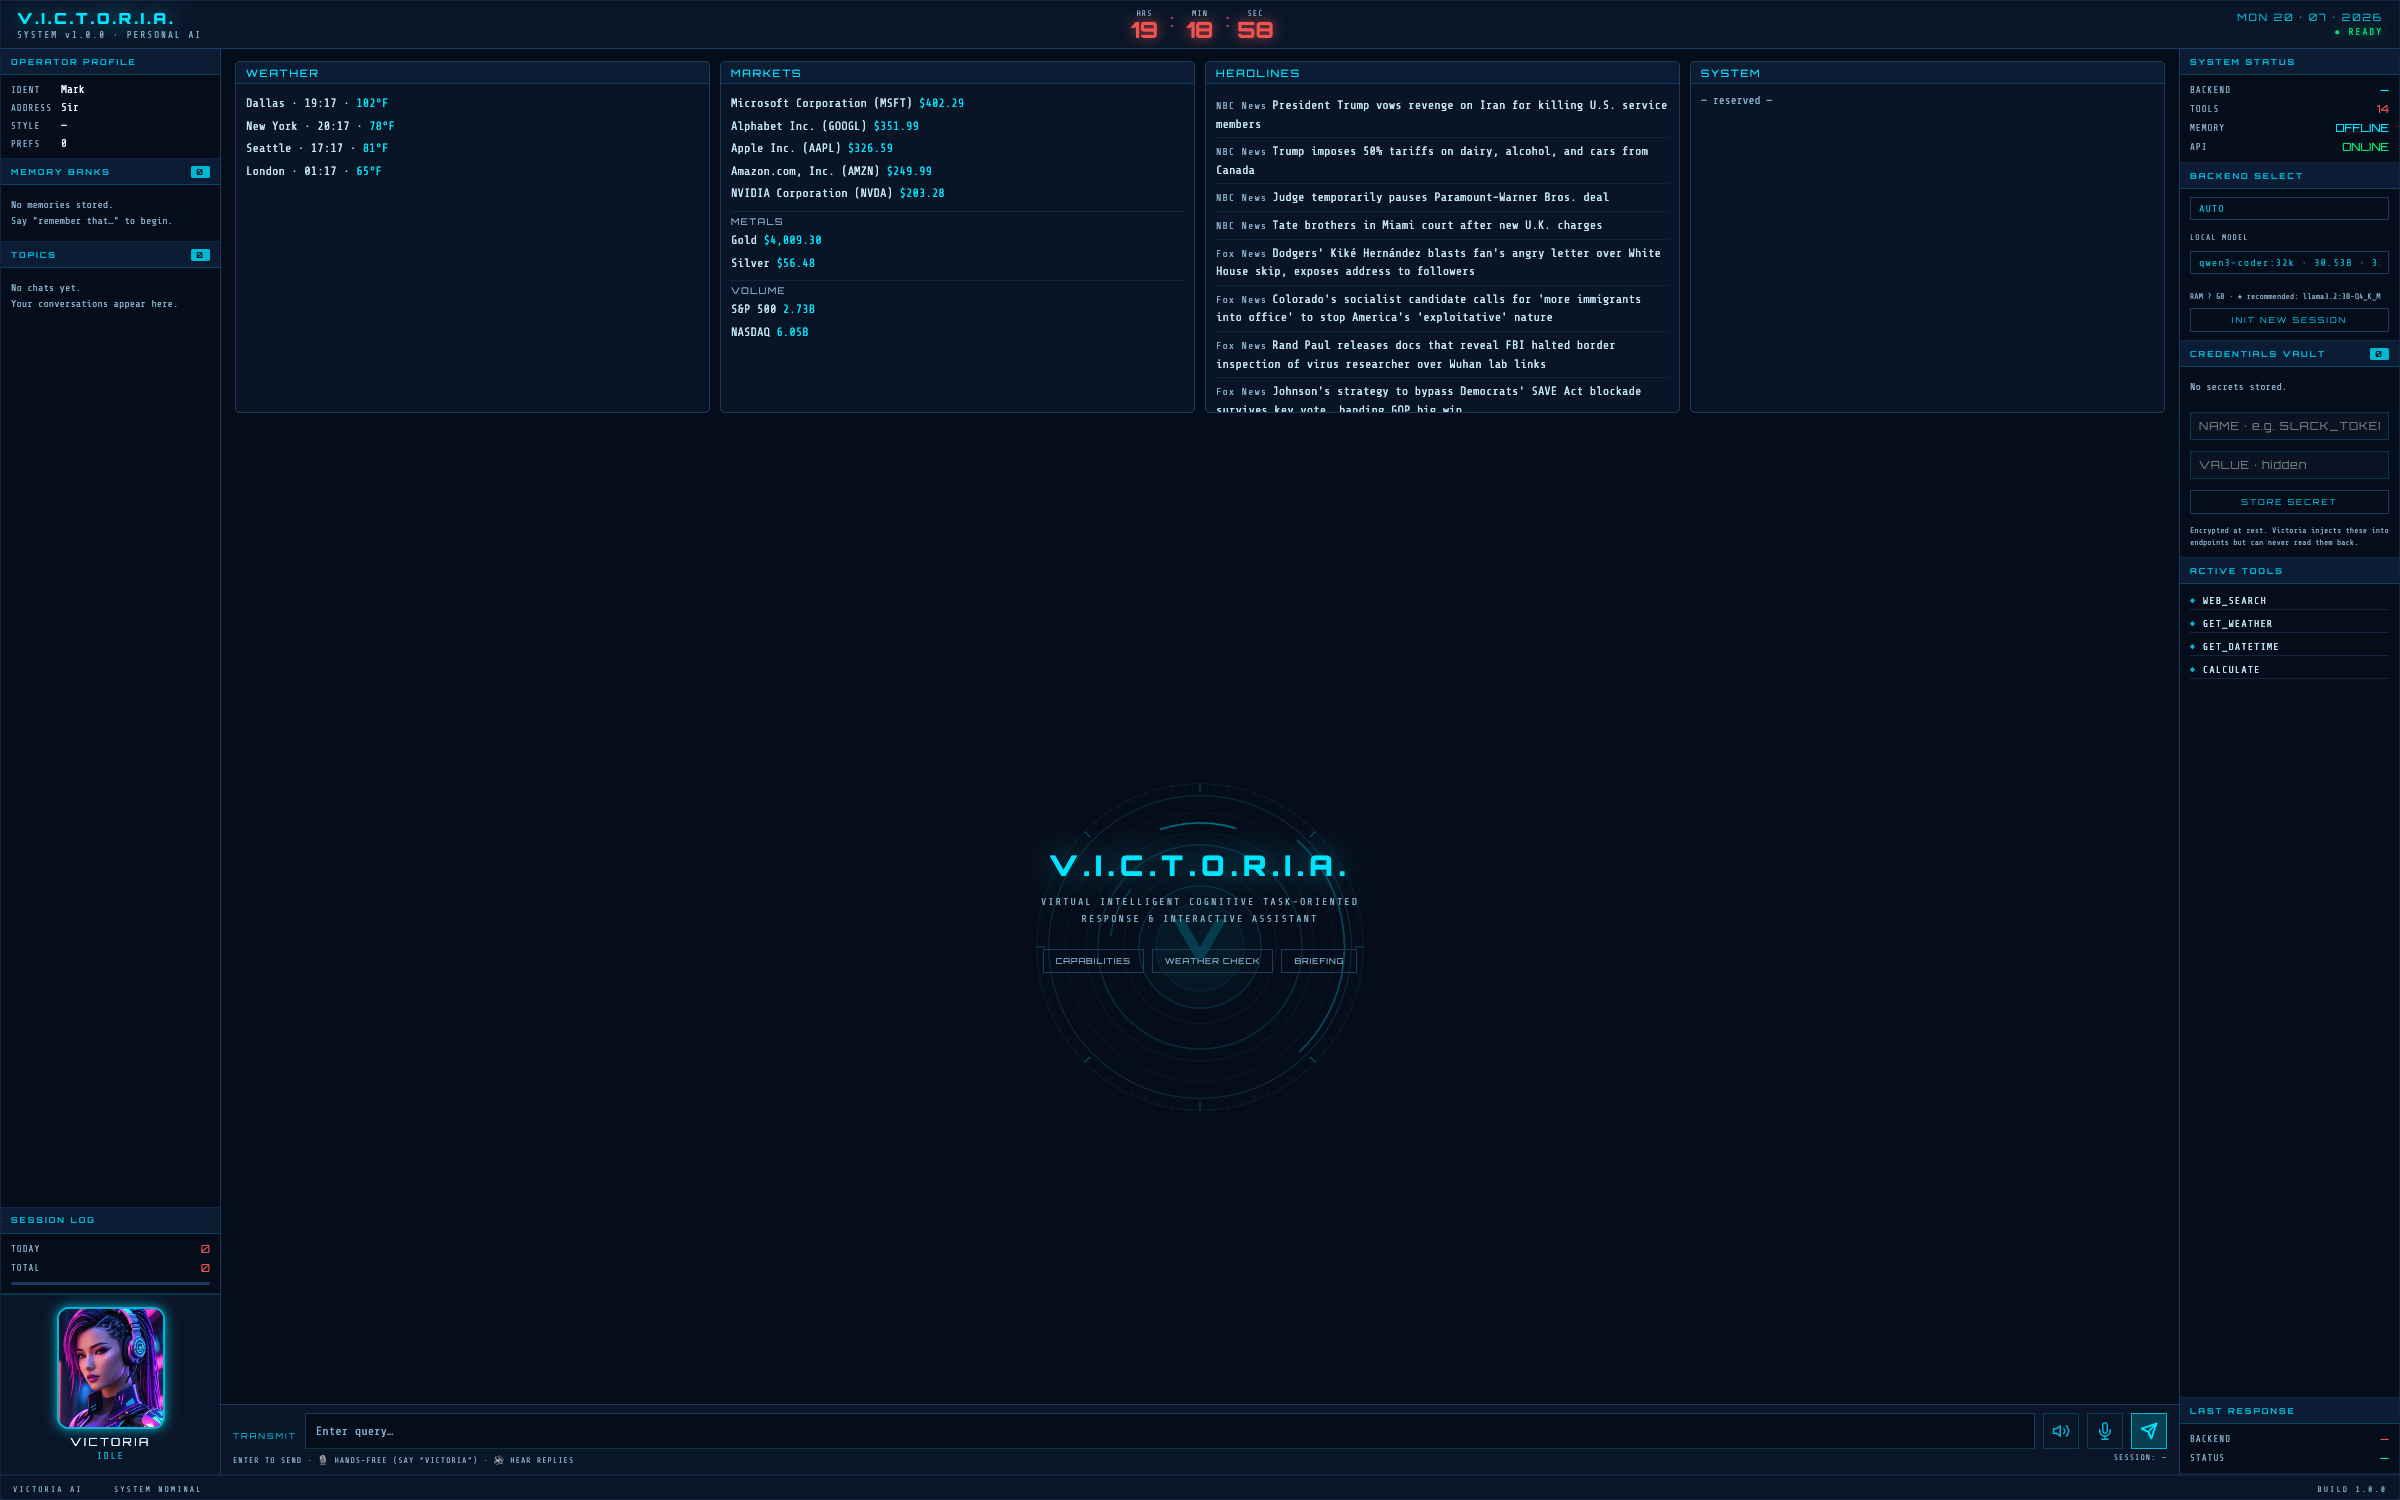
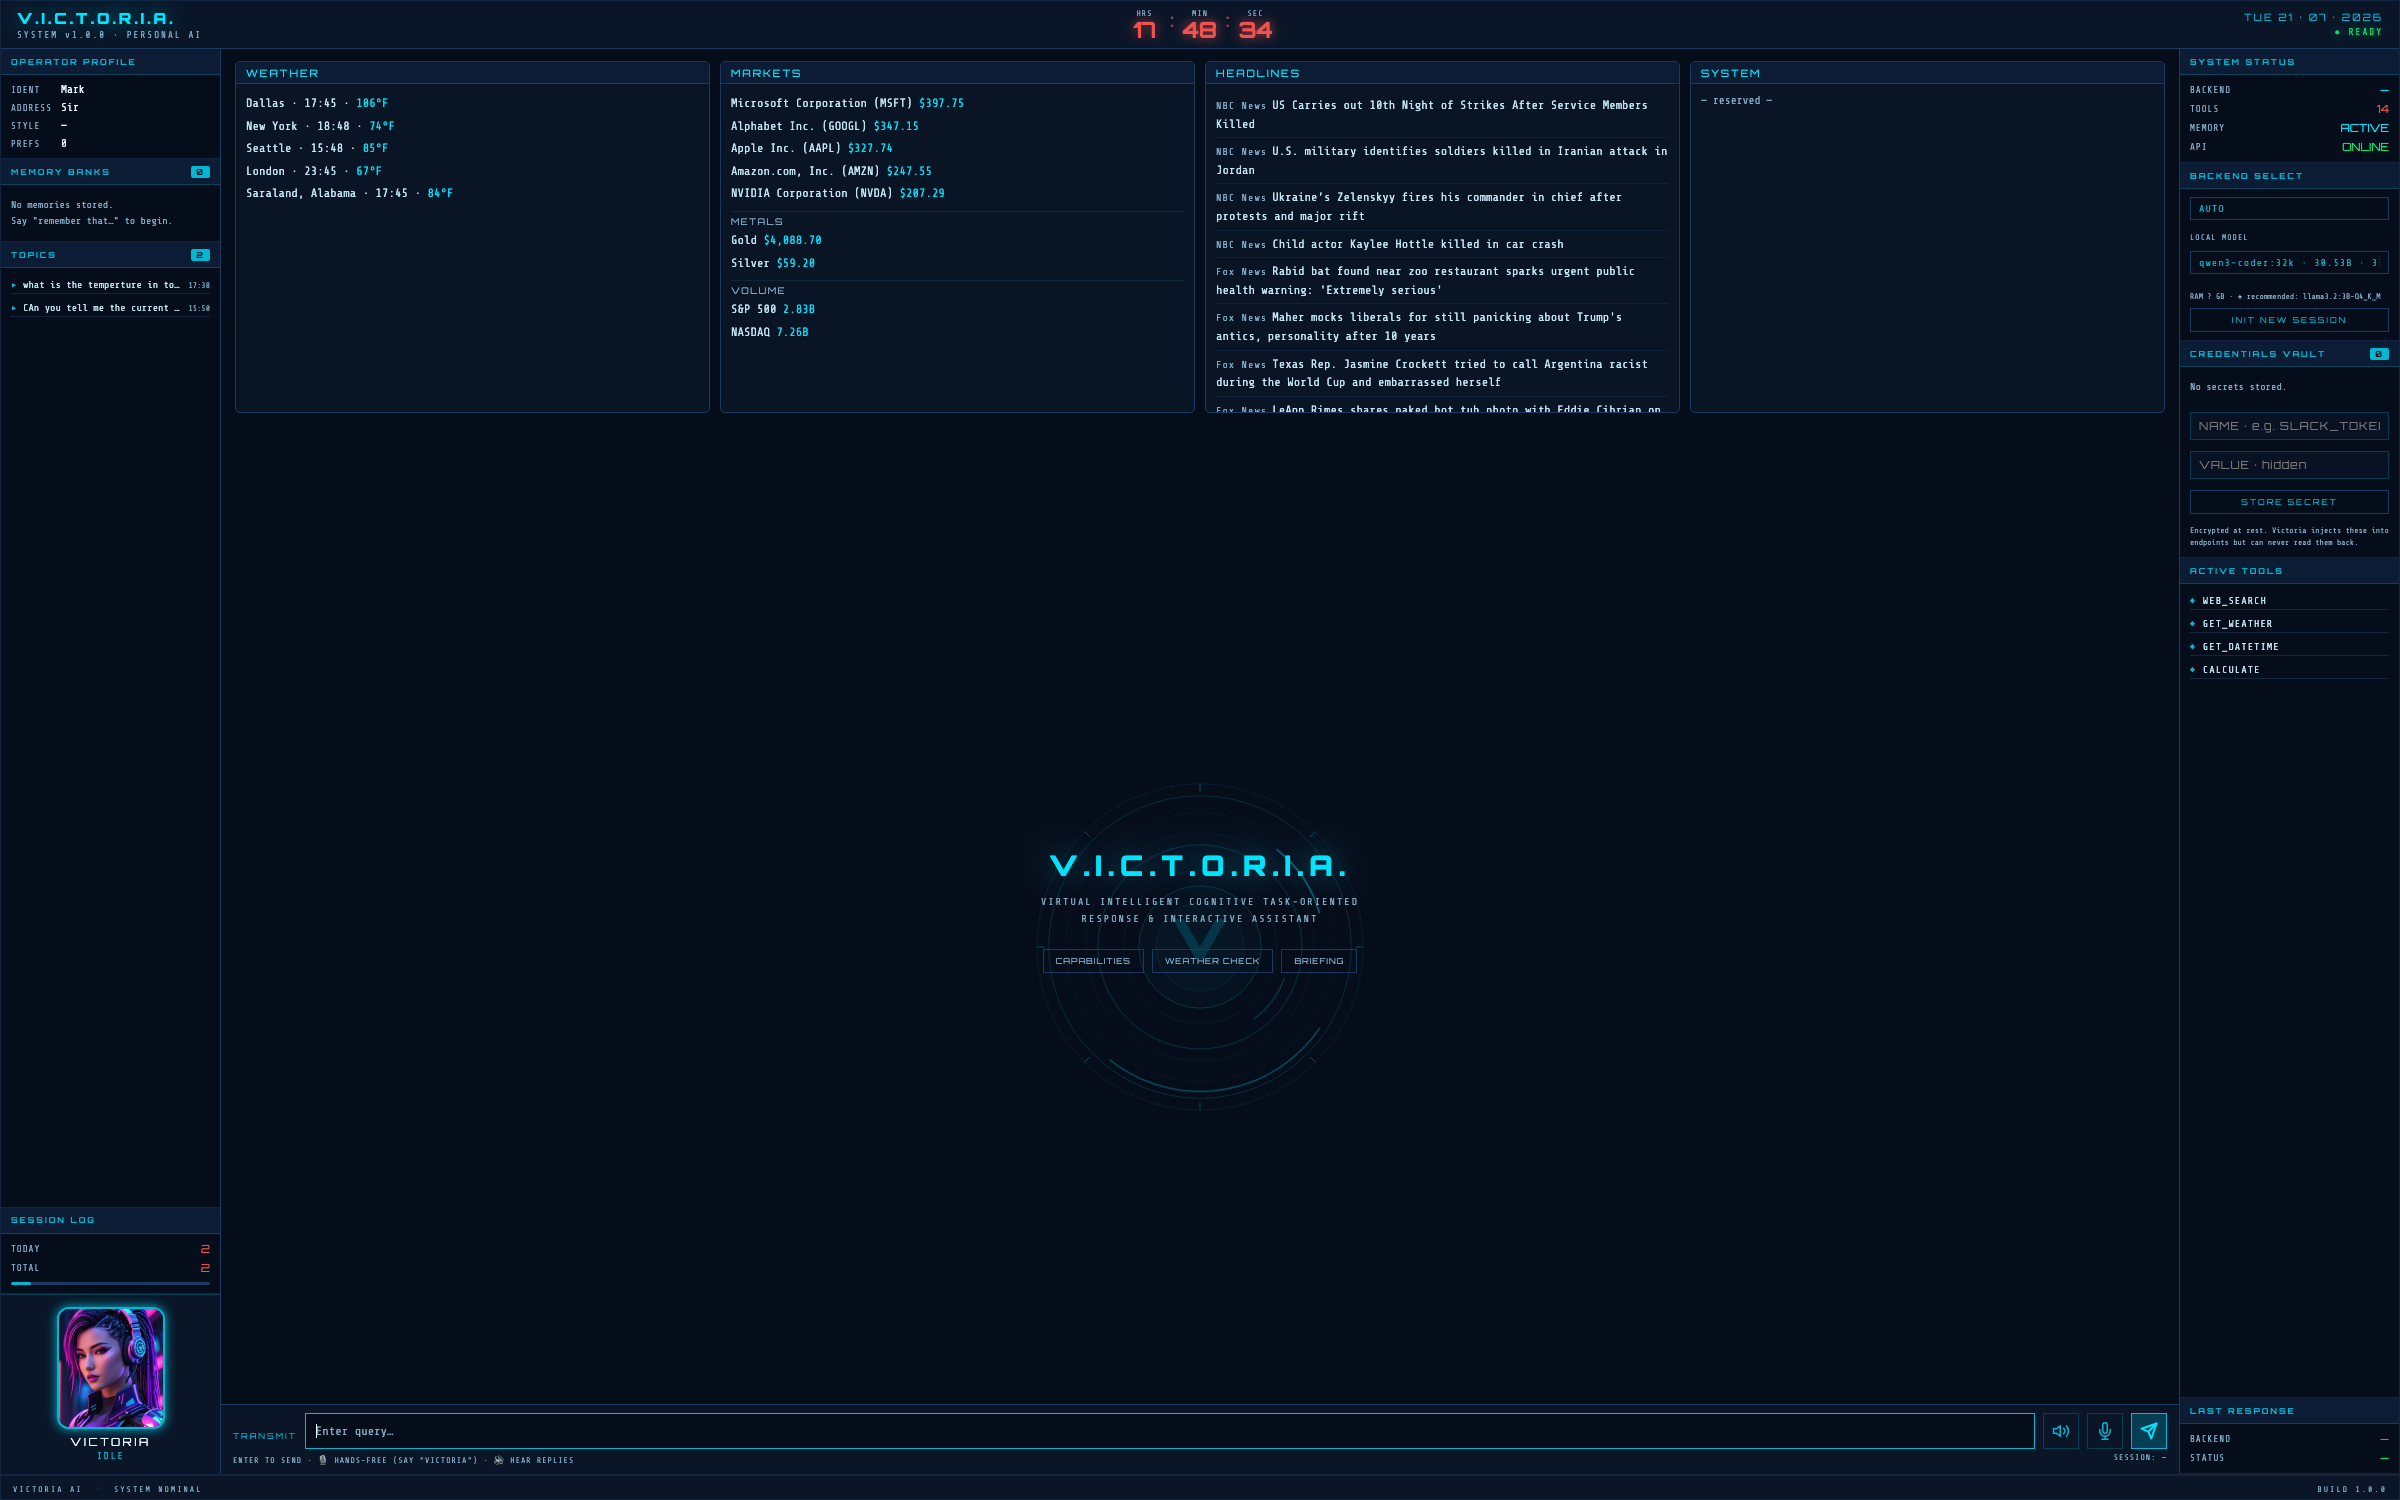
docs: reconcile sbx docs + screenshot with Phase 2 (post #61-#66) (#67)
Consistency audit after the recent sandbox work found five drifts between what
the docs claim and what the code/deployment now do (verified against source:
335 tests, 14 tools):

- README: document the Docker Sandbox run-mode that #62/#63 shipped — it was
  entirely absent. Adds a "Docker Sandbox — isolated (sbx)" section under
  Running Victoria and the sbx artifacts (deploy-sandbox.sh, sbx/spec.yaml,
  SANDBOX-DEPLOYMENT.md, SECURITY-AUDIT.md) to the file tree.
- SANDBOX-DEPLOYMENT.md: it's verified through Phase 2, not Phase 1 — fix the
  intro line and the "Verified working" header.
- SANDBOX-DEPLOYMENT.md: intro claimed "default-deny egress, credentials proxied
  in", but sbx/spec.yaml has no allowedDomains and no secret-engine wiring — that
  is the Phase 3 target. Reword to state the current broad-allow reality and
  point at SECURITY-AUDIT.md.
- docs/screenshots/sbx-hud.png: recaptured from the live sandbox — the committed
  image showed MEMORY: OFFLINE (Phase 1); it now shows MEMORY: ACTIVE, matching
  the doc's own table and /health (semantic_memory: true).

(The ~/.claude copy of victoria-reference.md — test count 331 -> 335 — was
corrected in place; it lives outside the repo so isn't part of this diff.)

Changed region(s): [[0.5, 0.1227, 0.6875, 0.276], [0.0, 0.184, 0.0938, 0.2147], [0.4688, 0.0, 0.5312, 0.0307]]

diff --git a/README.md b/README.md
@@ -66,6 +66,11 @@ victoria-ai/
 ├── skills/                     # Bundled skills (email-drafter, meeting-summariser, code_reviewskill)
 ├── tests/                      # 335 pytest tests
 ├── setup-victoria-mac.sh       # One-command macOS installer
+├── deploy-sandbox.sh           # Deploy Victoria into an isolated Docker Sandbox (sbx)
+├── sbx/
+│   └── spec.yaml               # Docker Sandbox kit — packed & run by deploy-sandbox.sh
+├── SANDBOX-DEPLOYMENT.md       # Docker Sandbox deployment guide (+ gotchas, roadmap)
+├── SECURITY-AUDIT.md           # Sandbox egress-hardening plan (Phase 3)
 ├── docker-compose.yml
 ├── Dockerfile
 ├── requirements.txt
@@ -471,6 +476,23 @@ This starts:
 - `victoria-telegram` (Telegram bot)
 
 Both containers connect to Docker Model Runner on the host via `model-runner.docker.internal`.
+
+### Docker Sandbox — isolated (sbx)
+
+For hardware-level isolation from the host, run Victoria inside a **Docker
+Sandbox**: an isolated Linux microVM that mounts only approved paths, while the
+heavy local LLM stays on the host's Model Runner. The full dependency set (incl.
+ChromaDB semantic memory) installs on a Python 3.11 venv, and the HUD is
+published to `127.0.0.1:8001`.
+
+```bash
+./deploy-sandbox.sh          # stages code, packs the sbx kit, runs it, publishes the HUD
+open http://127.0.0.1:8001   # use 127.0.0.1 — NOT localhost (resolves to ::1)
+```
+
+See **[SANDBOX-DEPLOYMENT.md](SANDBOX-DEPLOYMENT.md)** for the full guide,
+architecture, gotchas, and the Phase 3 hardening roadmap
+([SECURITY-AUDIT.md](SECURITY-AUDIT.md)).
 
 ---
 

diff --git a/SANDBOX-DEPLOYMENT.md b/SANDBOX-DEPLOYMENT.md
@@ -1,9 +1,12 @@
 # Victoria in a Docker Sandbox (sbx)
 
 Run Victoria as a **persistent service inside an isolated Docker Sandbox** —
-hardware-isolated from the host filesystem/processes, default-deny egress,
-credentials proxied in — while the heavy local LLM stays on the host's Docker
-Model Runner. **Verified working end-to-end (Phase 1).**
+hardware-isolated from the host filesystem/processes — while the heavy local LLM
+stays on the host's Docker Model Runner. Tightened egress (an allowlist) and
+secret-engine credentials are the **Phase 3** hardening target (see
+[`SECURITY-AUDIT.md`](SECURITY-AUDIT.md)); today the sandbox runs on the org's
+broad network allow. **Verified working end-to-end (Phase 2 — full dependency set
++ ChromaDB semantic memory).**
 
 ![Victoria running inside a Docker Sandbox](docs/screenshots/sbx-hud.png)
 
@@ -40,7 +43,7 @@ It packs [`sbx/spec.yaml`](sbx/spec.yaml) (`sbx kit pack`), runs it
 (`sbx run --kit … victoria <repo> <vault>`), and publishes the port
 (`sbx ports … --publish 127.0.0.1:8001:8000`). The kit header lists the exact commands.
 
-## Verified working (Phase 1)
+## Verified working (Phase 2)
 
 | Capability | Status |
 |---|---|